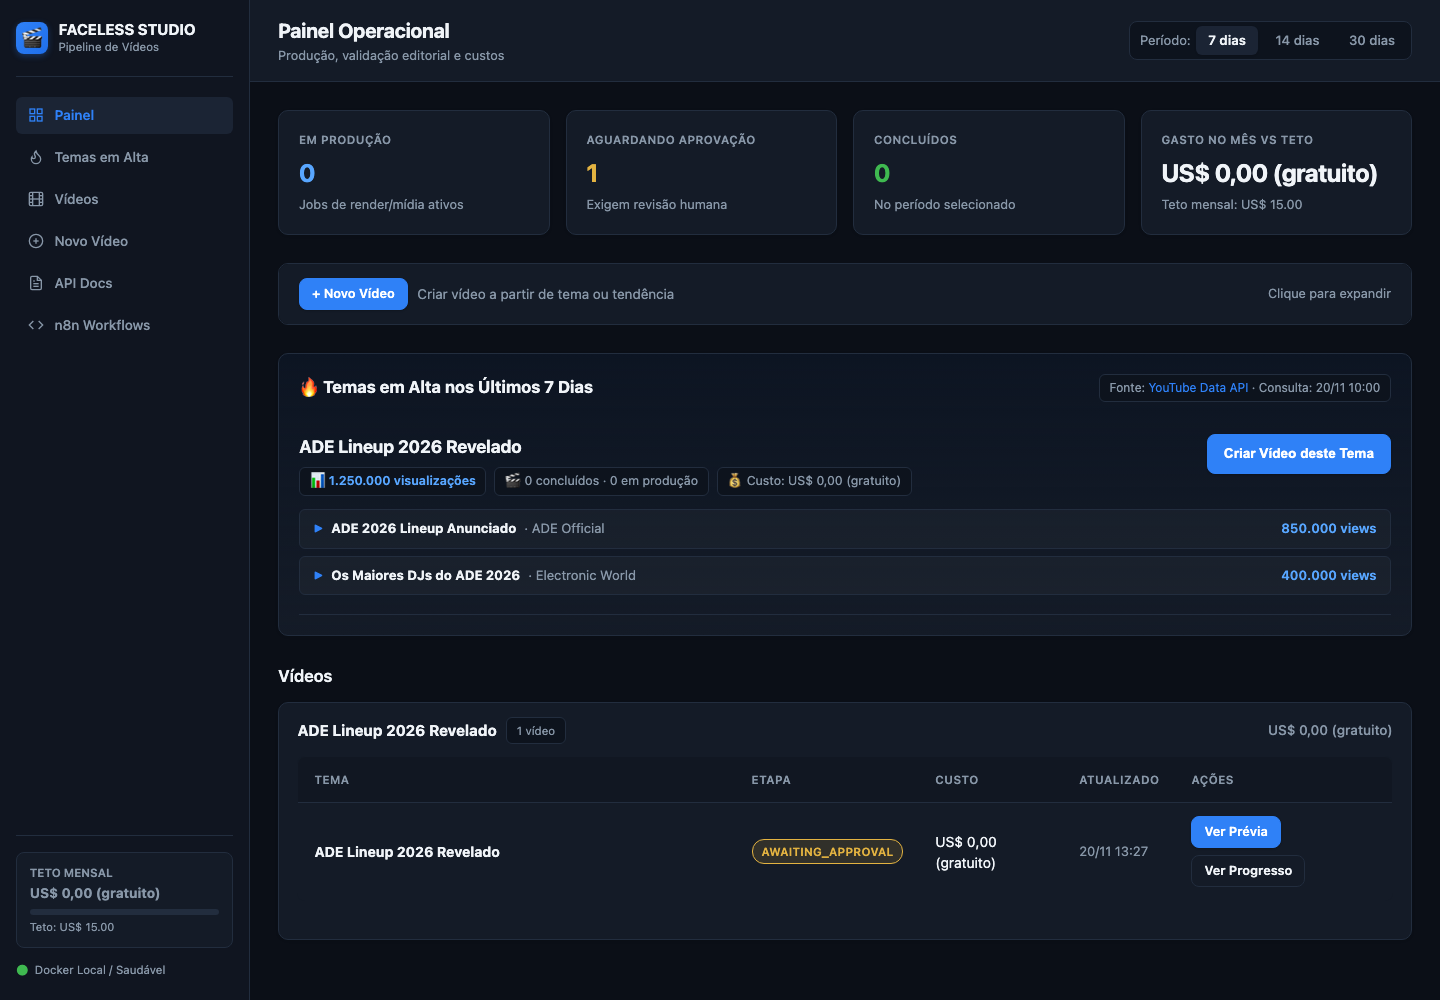
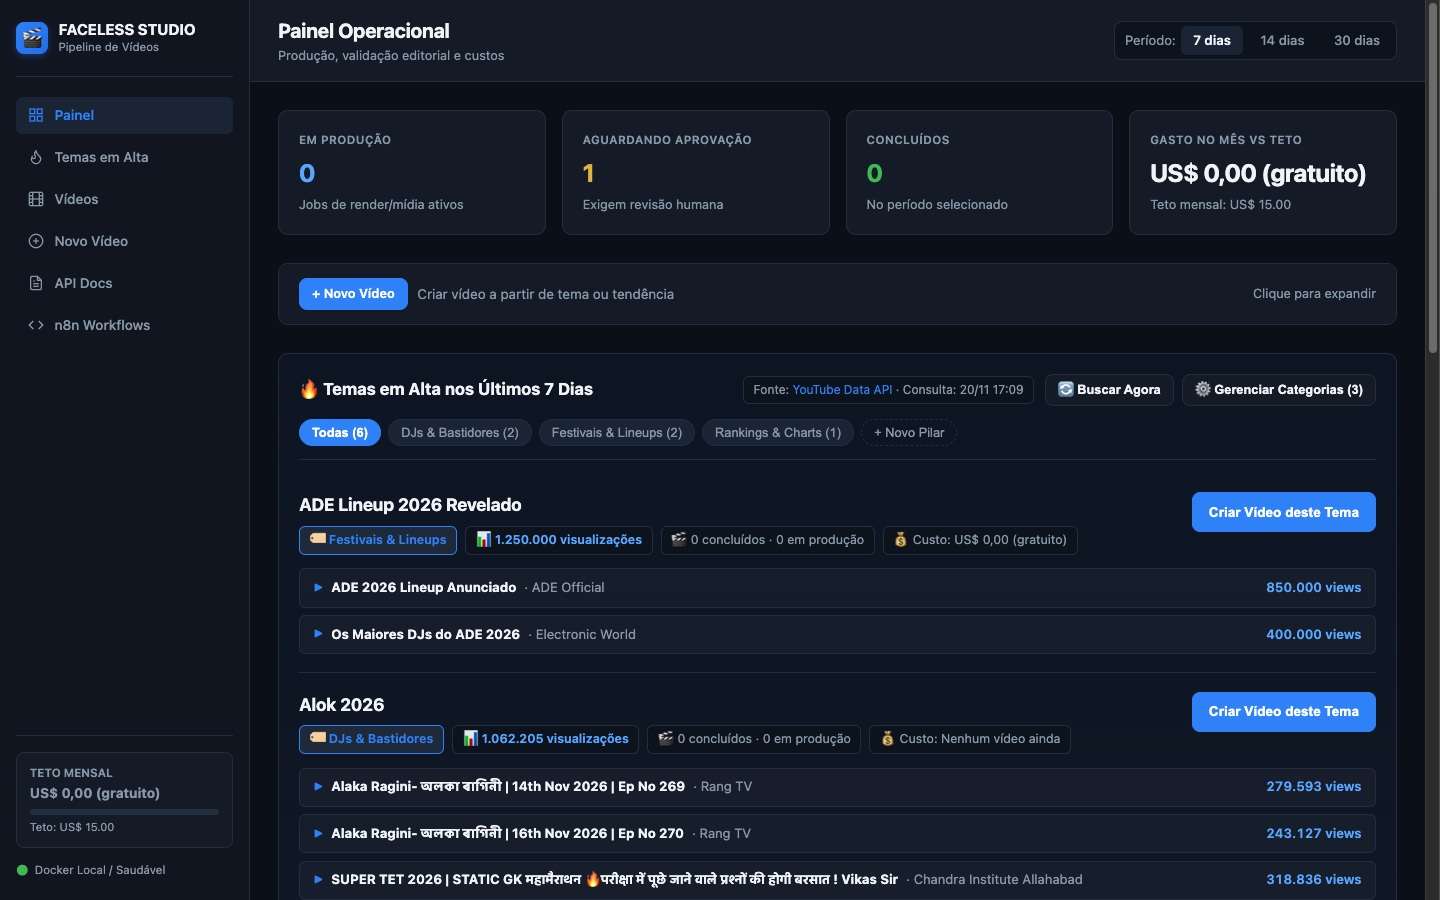
docs: update panel guide and screenshots with content pillars

diff --git a/docs/18-painel.md b/docs/18-painel.md
@@ -46,8 +46,15 @@ O painel do Faceless Studio é a interface visual para acompanhar a produção d
 - **Auditoria de Custos:** Lista todas as chamadas de IA registradas para o vídeo (passo, provedor, modelo e custo em dólares).
 - **Publicação:** Exibe o status da tentativa de upload e eventuais mensagens de erro de rede.
 
-### 6. Seção de Temas em Alta (Fase B)
-- **Origem dos Dados:** Ingestão diária de tópicos e evidências da YouTube Data API v3 (workflow `05-trends-daily.json`).
+### 6. Seção de Temas em Alta e Pilares de Conteúdo
+- **Origem dos Dados:** Ingestão diária de tópicos e evidências da YouTube Data API v3 (workflow `05-trends-daily.json`) ou coleta sob demanda acionada diretamente no painel.
+- **Pilares de Conteúdo (Categorias):**
+  - Barra de pílulas (*chips*) no topo da seção: **Todas (N)**, cada pilar com seu contador de tópicos correspondentes e o botão de atalho **+ Novo Pilar**.
+  - O clique em uma pílula filtra os tópicos na tela instantaneamente, destacando apenas os temas pertencentes ao pilar escolhido.
+  - Cada cartão de tema exibe o distintivo com o pilar associado (ex.: `🏷 Festivais & Lineups`).
+- **Ações Rápidas na Barra:**
+  - **🔄 Buscar Agora:** Dispara atualização sob demanda via YouTube Data API v3 (`POST /studio/projects/{id}/trends/refresh`), trazendo evidências e visualizações recentes sem esperar o agendamento noturno.
+  - **⚙ Gerenciar Categorias:** Abre o modal de gerenciamento de pilares para cadastrar novos pilares, ajustar termos de busca curados (até 10 por pilar) ou remover pilares existentes.
 - **Verificabilidade:** Cada tema exibe a fonte oficial (`YouTube Data API`), o link direto, a data/hora da consulta e as visualizações agregadas dos principais vídeos da janela.
 - **Status do Período:**
   - Se a consulta estiver dentro da janela do filtro, exibe os tópicos normalmente.
@@ -55,6 +62,14 @@ O painel do Faceless Studio é a interface visual para acompanhar a produção d
   - Se ainda não houve ingestão, exibe `Ainda não há coleta de tendências registrada para o período selecionado.` (sem inventar dados).
 - **Criar Vídeo deste Tema:**
   - O botão preenche automaticamente o campo de tema no formulário `+ Novo Vídeo` e abre o formulário para o operador revisar o projeto e formato antes de criar.
+
+### 7. Gerenciamento de Pilares de Conteúdo (Modal)
+- O modal permite definir os eixos editoriais estratégicos do canal.
+- Cada pilar possui um nome (1 a 100 caracteres) e até 10 termos curados de busca separados por vírgula.
+- Ações no modal:
+  - **Editar:** Carrega o pilar no formulário inferior para ajustes de nome e termos.
+  - **Excluir:** Remove o pilar com confirmação (os tópicos vinculados são mantidos com categoria desvinculada).
+  - **Novo Pilar:** Salva o novo pilar e atualiza a barra de pílulas no painel.
 
 ## Política de Custo Honesto
 - Quando todos os modelos usados forem comprovadamente gratuitos (ex.: `:free`, placeholders ou síntese local Piper TTS), o painel exibe `US$ 0,00 (gratuito)`.
@@ -74,7 +89,8 @@ barra superior com o filtro de período e o card do teto mensal no rodapé do me
 de formulário (inputs, selects, textareas) têm estilo próprio, com foco visível. O tema segue
 o modo claro/escuro do sistema. A prévia de aprovação usa o mesmo visual.
 
-![Painel](images/painel-dashboard.png)
+![Painel com Pilares de Conteúdo](images/painel-dashboard.png)
+![Modal de Gerenciamento de Categorias](images/painel-categorias-modal.png)
 ![Formulário de novo vídeo](images/painel-form-novo-video.png)
 ![Detalhe do vídeo](images/painel-detalhe-video.png)
 ![Prévia e aprovação](images/painel-preview.png)

diff --git a/docs/19-tendencias.md b/docs/19-tendencias.md
@@ -51,6 +51,43 @@ A credencial de leitura do YouTube fica **exclusivamente no n8n** (nunca no `.en
 
 ---
 
+## Pilares de Conteúdo e Categorias por Projeto
+
+Para evitar que o canal dependa de buscas genéricas e sem foco editorial, o Studio organiza as tendências em **Pilares de Conteúdo** (categorias fixas por projeto).
+
+### 1. Conceito Editorial
+- Cada projeto/canal possui seus pilares estratégicos (exemplo para Música Eletrônica: `Festivais & Lineups`, `DJs & Bastidores`, `Rankings & Charts`).
+- Cada pilar possui uma lista curada de termos de busca (`queries`), limitados a **no máximo 10 termos por categoria** para evitar consumo descontrolado da cota da YouTube Data API.
+- Tópicos coletados são associados automaticamente ao pilar correspondente tanto pela chave quanto por correspondência léxica de termos de busca nos títulos de evidências.
+
+### 2. Endpoints da API de Categorias e Tendências
+
+As operações de categorias são autenticadas por `STUDIO_WORKER_TOKEN` (Bearer) ou autenticação do navegador (Basic Auth com CSRF):
+
+- **Listar Categorias:**
+  - `GET /studio/projects/{project_id}/categories`
+  - Retorna a lista de pilares cadastrados, ordenados por nome.
+- **Criar ou Atualizar Categoria:**
+  - `POST /studio/projects/{project_id}/categories`
+  - Payload:
+    ```json
+    {
+      "id": "opcional (se omitido, gera novo id hex32)",
+      "name": "Festivais & Lineups",
+      "queries": ["ADE 2026", "Tomorrowland Brasil", "Ultra Brasil"]
+    }
+    ```
+  - Validações: nome entre 1 e 100 caracteres; máximo de 10 queries; lista de queries deduplicada e sem termos em branco.
+- **Excluir Categoria:**
+  - `DELETE /studio/projects/{project_id}/categories/{category_id}`
+  - Remove o pilar. No banco de dados, `studio.trend_topics.category_id` possui `ON DELETE SET NULL`, preservando as tendências já salvas.
+- **Atualização sob Demanda de Tendências:**
+  - `POST /studio/projects/{project_id}/trends/refresh`
+  - Payload opcional: `{"queries": ["termo customizado"]}`. Se omitido, utiliza as queries agregadas de todos os pilares do projeto.
+  - Consulta a YouTube Data API v3, armazena os tópicos e evidências e retorna a contagem de registros persistidos.
+
+---
+
 ## Status da Coleta e Exibição no Painel
 - **Atualizado:** Consulta realizada dentro da janela do filtro selecionado.
 - **Desatualizado (stale):** Se a última consulta bem-sucedida for mais antiga que o período selecionado (ex.: consulta de 10 dias atrás para um filtro de 7 dias), o painel exibe um aviso explícito de que os dados estão desatualizados.
